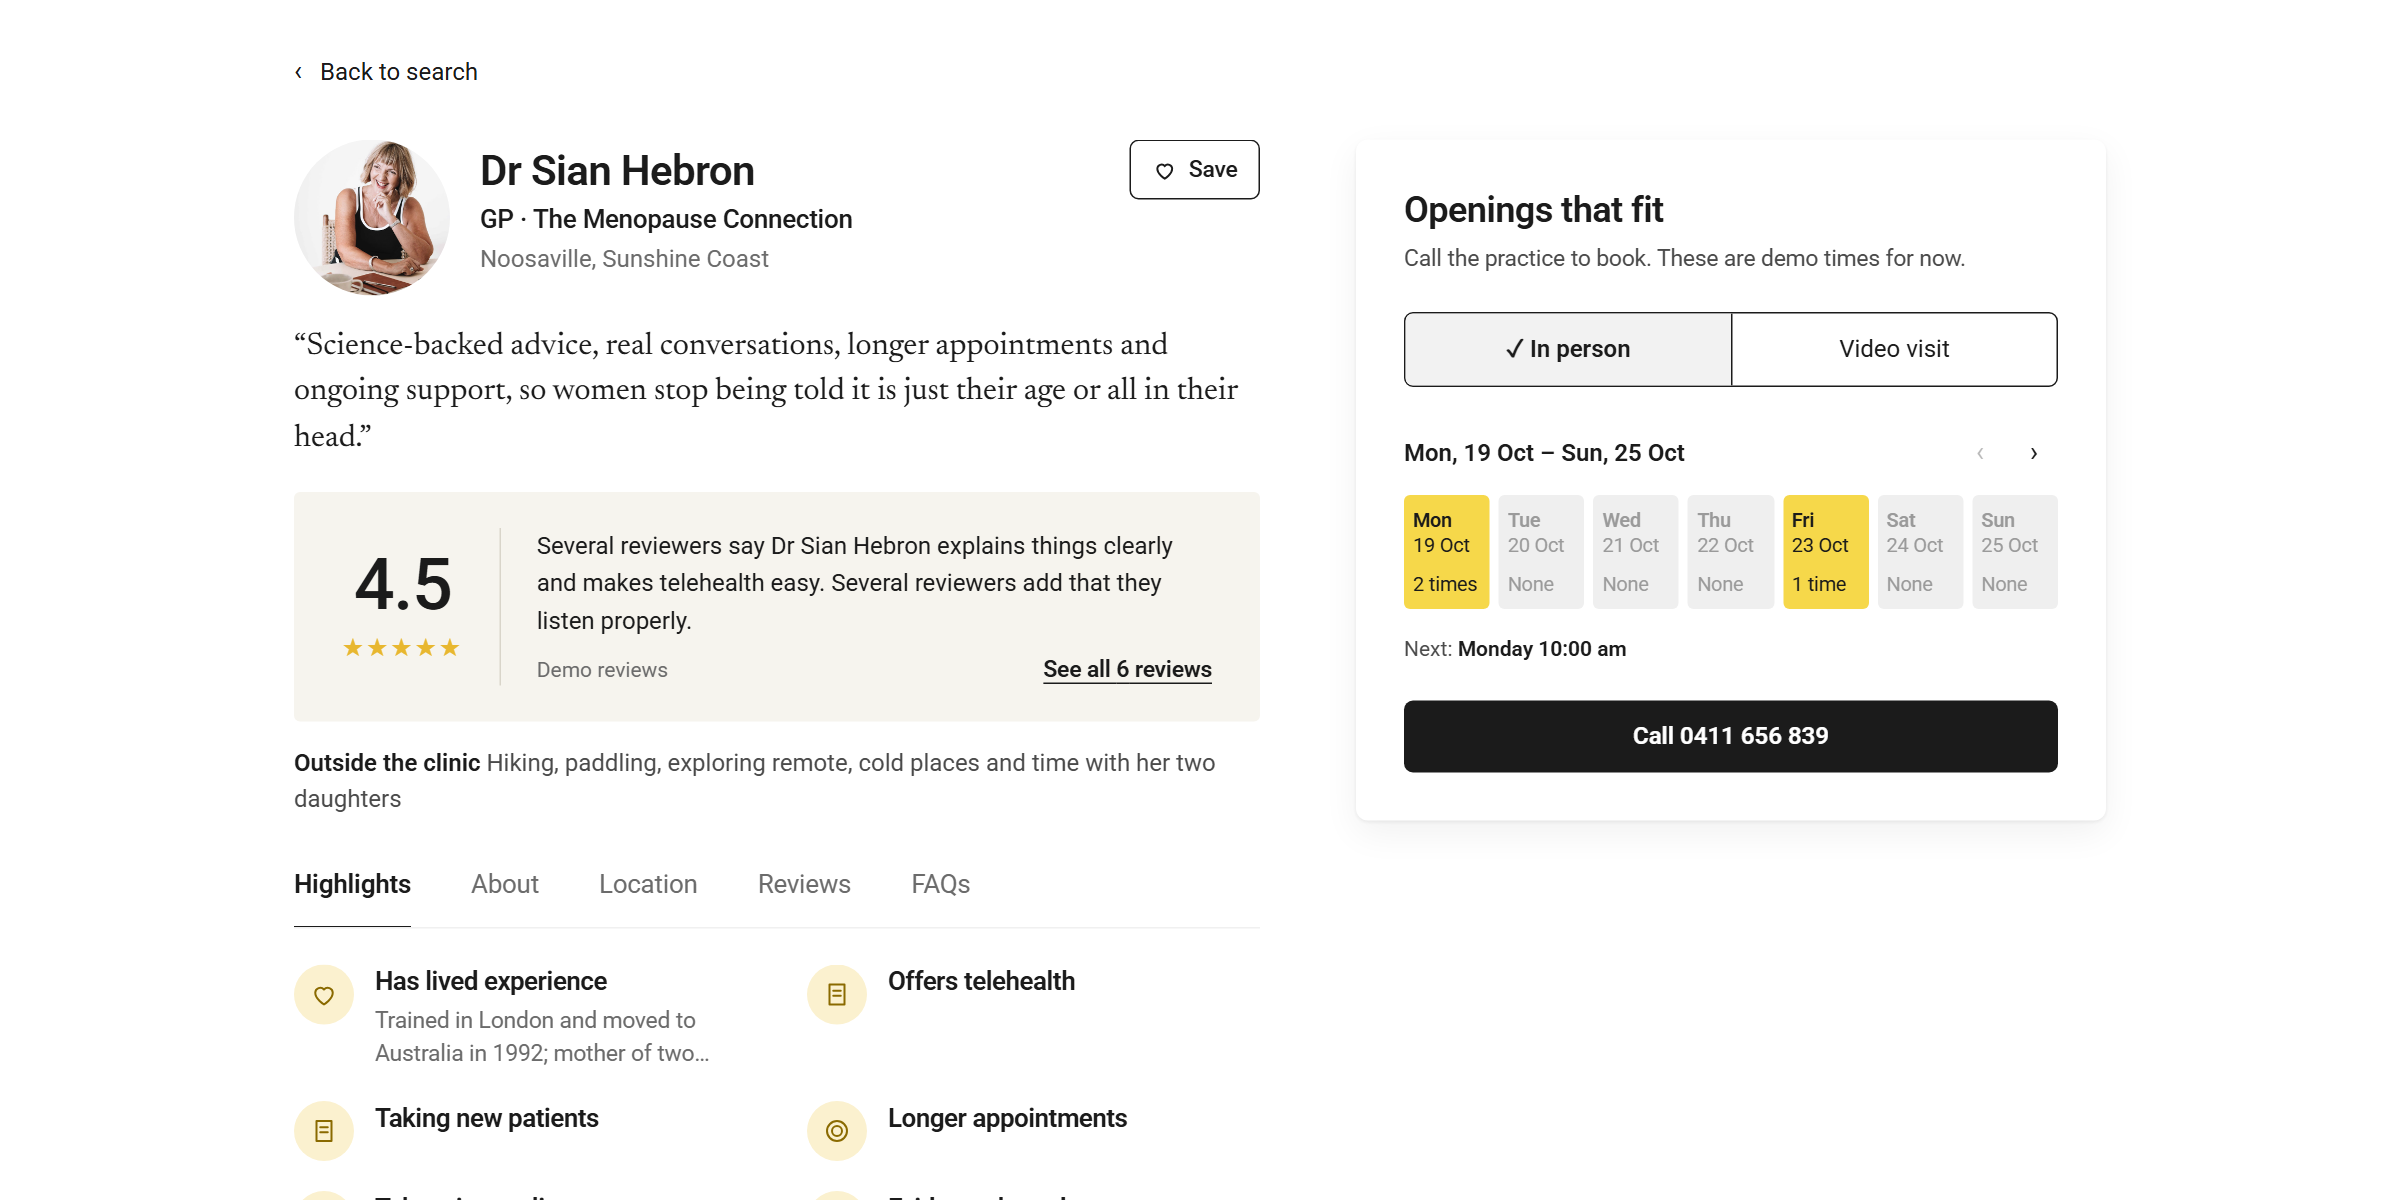
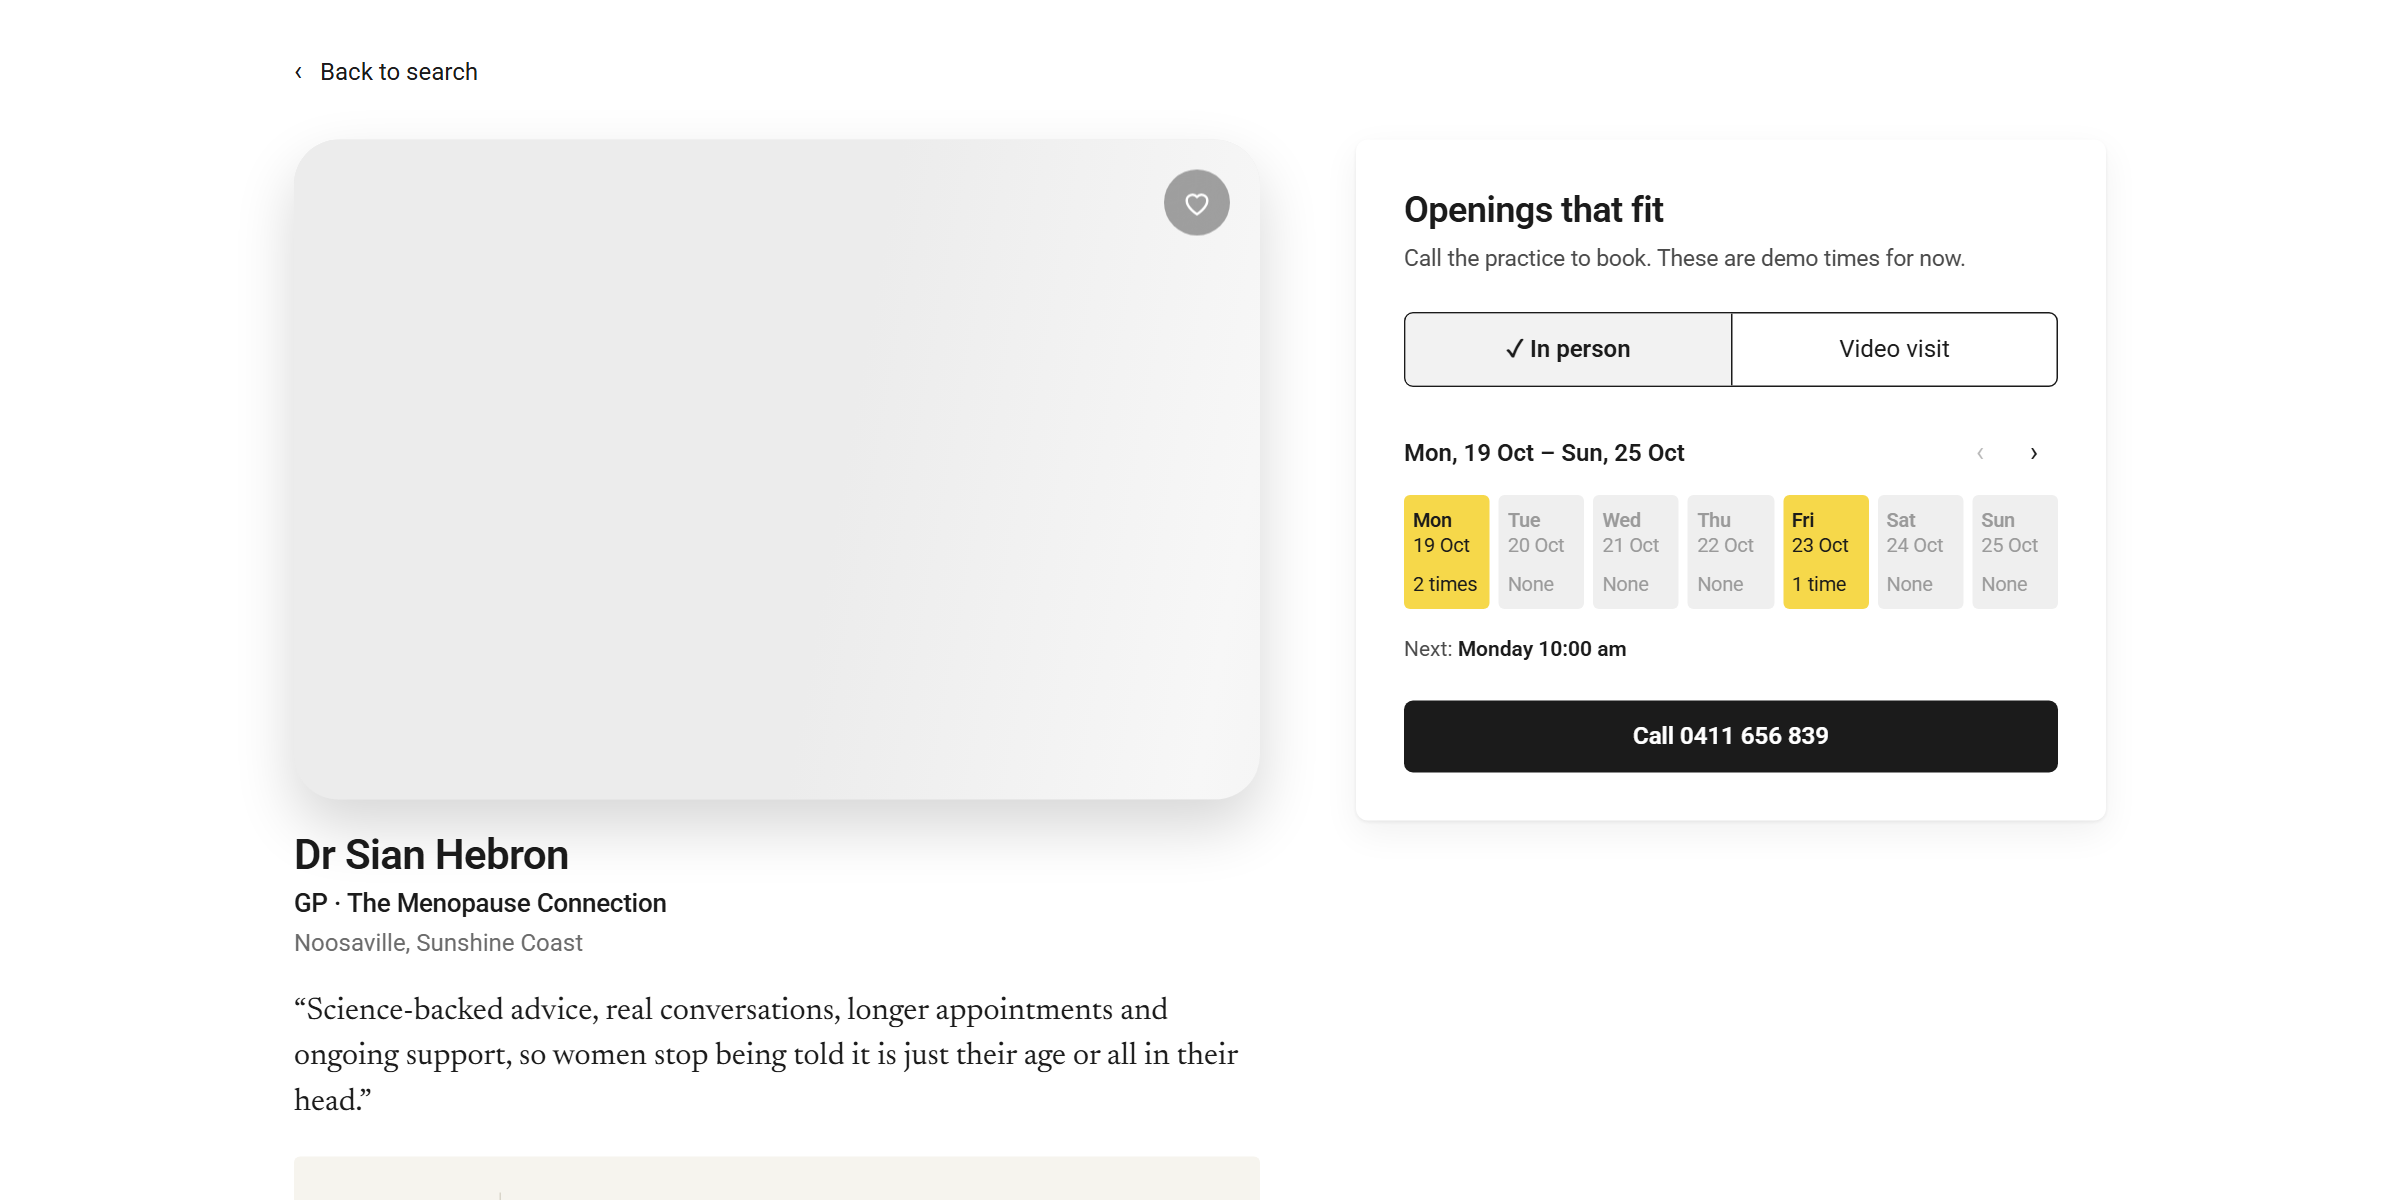
Big portraits back on matches, profiles and healthspan results (founder: big faces are more personable); Zocdoc name block, rating panel, tabs and openings card kept

diff --git a/src/ui/screens/patient-a/MatchPanel.tsx b/src/ui/screens/patient-a/MatchPanel.tsx
@@ -14,7 +14,7 @@ import { Facts, Research, Sources, Words } from "@/src/ui/screens/patient-b/Prof
 import { ContactCta } from "@/src/ui/screens/patient-b/ProfileClient";
 import { Reviews } from "@/src/ui/screens/patient-b/Reviews";
 import { conditionLabels, drShort, feeOf, listSentence, personalOf, placeOf, primaryRoom, specialtyTitle, wordsSource } from "@/src/ui/screens/patient-b/facts";
-import { fitSentence } from "./DoctorCard";
+import { fitSentence, Portrait } from "./DoctorCard";
 import { BookCard } from "./BookCard";
 import type { Highlight } from "@/src/data/search-types";
 
@@ -115,26 +115,15 @@ export function MatchPanel({ card, index, total, labels, saved, onSave, newPatie
       ) : null}
       <div className="lg:grid lg:grid-cols-[minmax(0,1fr)_500px] lg:items-start lg:gap-16">
       <div className="min-w-0">
-      <header className="flex items-start gap-5">
-        <Link href={doctorHref(d.id)} className="press shrink-0">
-          {d.photo ? (
-            // eslint-disable-next-line @next/next/no-img-element
-            <img src={d.photo.url} alt={drShort(d)} referrerPolicy="no-referrer" loading={index === 0 ? "eager" : "lazy"} className="size-[88px] rounded-full object-cover object-top lg:size-[104px]" />
-          ) : (
-            <span className="inline-flex size-[88px] items-center justify-center rounded-full bg-[#f5f8f6] font-display text-[30px] text-[#2f5d3a] lg:size-[104px]">{d.name.display.replace(/^Dr\.? /, "").split(" ").map((w) => w[0]).slice(0, 2).join("")}</span>
-          )}
+      <Link href={doctorHref(d.id)} className="press block">
+        <Portrait d={d} height={440} saved={saved} onSave={onSave} eager={index === 0} caption={false} />
+      </Link>
+      <header className="mt-5">
+        <Link href={doctorHref(d.id)} className="press-dim block">
+          <p role="heading" aria-level={2} className="text-[24px] font-semibold leading-[1.2] tracking-[-0.015em] text-ink lg:text-[28px]">{d.name.display}</p>
         </Link>
-        <div className="min-w-0 flex-1 pt-1">
-          <Link href={doctorHref(d.id)} className="press-dim block">
-            <p role="heading" aria-level={2} className="text-[22px] font-semibold leading-[1.2] tracking-[-0.015em] text-ink lg:text-[28px]">{d.name.display}</p>
-          </Link>
-          <p className="mt-1 text-[16px] font-medium leading-snug text-ink lg:text-[17px]">{line}</p>
-          <p className="mt-1 text-[15px] leading-snug text-[#6b6b6b] lg:text-[16px]">{[placeOf(d), km].filter(Boolean).join(" · ")}</p>
-        </div>
-        <button type="button" aria-pressed={saved} aria-label={saved ? "Remove from saved" : "Save"} onClick={onSave} className="press hidden h-10 shrink-0 items-center gap-2 rounded-[6px] border border-ink px-3.5 text-[15px] font-medium text-ink sm:inline-flex">
-          <svg width={17} height={17} viewBox="0 0 24 24" fill={saved ? "currentColor" : "none"} stroke="currentColor" strokeWidth={1.8} aria-hidden="true"><path d="M12 20s-7-4.3-7-9.4A4 4 0 0 1 12 8a4 4 0 0 1 7 2.6C19 15.7 12 20 12 20Z" /></svg>
-          {saved ? "Saved" : "Save"}
-        </button>
+        <p className="mt-1 text-[16px] font-medium leading-snug text-ink lg:text-[17px]">{line}</p>
+        <p className="mt-1 text-[15px] leading-snug text-[#6b6b6b] lg:text-[16px]">{[placeOf(d), km].filter(Boolean).join(" · ")}</p>
       </header>
       {ownLine ? <p className="mt-5 font-display text-[19px] leading-[1.45] text-ink lg:text-[21px]">“{ownLine.replace(/^[“"]|[”"]$/g, "")}”</p> : <p className="mt-5 text-[15px] leading-[1.5] text-[#6b6b6b]">{fitSentence(card, labels)}</p>}
       {reviews && reviews.count > 0 ? (

diff --git a/src/ui/screens/patient-b/HealthspanLanding.tsx b/src/ui/screens/patient-b/HealthspanLanding.tsx
@@ -10,6 +10,7 @@ import type { HealthspanMatch } from "@/src/data/healthspan-match";
 import { ArrowLeft, Check, Circle, Cta, Screen, Toggle } from "@/src/ui/kit";
 import { doctorHref } from "@/src/data/doctor-slug";
 import type { Offering } from "./Discover";
+import { Portrait } from "../patient-a/DoctorCard";
 import { drName, placeOf, specialtyTitle } from "./facts";
 
 const BEATS = [
@@ -113,16 +114,13 @@ export function HealthspanLanding({ offerings }: { offerings: Offering[] }) {
                 const outside = hobbiesOf(m);
                 return (
                   <article key={m.doctor.id} className="rise border-b border-divider pb-8 last:border-b-0" style={{ "--i": i } as React.CSSProperties}>
-                    <Link href={doctorHref(m.doctor.id)} className="press-dim flex items-start gap-4">
-                      {m.doctor.photo ? (
-                        // eslint-disable-next-line @next/next/no-img-element
-                        <img src={m.doctor.photo.url} alt={drName(m.doctor)} referrerPolicy="no-referrer" className="size-[72px] shrink-0 rounded-full bg-[#f5f8f6] object-cover object-top" />
-                      ) : <span className="inline-flex size-[72px] shrink-0 items-center justify-center rounded-full bg-[#f5f8f6] text-[22px] text-[#2f5d3a]">{drName(m.doctor).replace(/^Dr /, "").split(" ").map((w) => w[0]).slice(0, 2).join("")}</span>}
-                      <span className="min-w-0 pt-1">
-                        <span className="block text-[20px] font-semibold leading-tight tracking-[-0.01em] text-ink">{drName(m.doctor)}</span>
-                        <span className="mt-0.5 block text-[15px] font-medium text-ink">{specialtyTitle(m.doctor.specialty)}</span>
-                        <span className="block text-[15px] text-[#6b6b6b]">{placeOf(m.doctor)}</span>
-                      </span>
+                    <Link href={doctorHref(m.doctor.id)} className="press block">
+                      <Portrait d={m.doctor} height={i === 0 ? 400 : 320} caption={false} />
+                    </Link>
+                    <Link href={doctorHref(m.doctor.id)} className="press-dim mt-4 block">
+                      <span role="heading" aria-level={3} className="block text-[22px] font-semibold leading-tight tracking-[-0.01em] text-ink">{drName(m.doctor)}</span>
+                      <span className="mt-0.5 block text-[15px] font-medium text-ink">{specialtyTitle(m.doctor.specialty)}</span>
+                      <span className="block text-[15px] text-[#6b6b6b]">{placeOf(m.doctor)}</span>
                     </Link>
                     <p className="mt-4 font-display text-[19px] leading-[1.45] text-ink">“{m.evidence.replace(/^[“"]|[”"]$/g, "")}”</p>
                     {m.reasons.length ? (

diff --git a/src/ui/screens/patient-a/DoctorCard.tsx b/src/ui/screens/patient-a/DoctorCard.tsx
@@ -37,7 +37,7 @@ export function fitSentence(card: Card, labels: Record<string, string>): string 
 }
 
 /** The P05 photo block on its own, reused by Saved. */
-export function Portrait({ d, height = 405, saved, onSave, eager = false }: { d: DoctorRecord; height?: number; saved?: boolean; onSave?: () => void; eager?: boolean }) {
+export function Portrait({ d, height = 405, saved, onSave, eager = false, caption = true }: { d: DoctorRecord; height?: number; saved?: boolean; onSave?: () => void; eager?: boolean; caption?: boolean }) {
   const name = drName(d);
   const [bg, fg] = tintFor(name);
   const [loaded, setLoaded] = useState(false);
@@ -70,7 +70,7 @@ export function Portrait({ d, height = 405, saved, onSave, eager = false }: { d:
           <Heart key={saved ? "on" : "off"} size={22} fill={saved ? "currentColor" : "none"} className={saved ? "pop" : undefined} />
         </button>
       ) : null}
-      <div className="absolute bottom-5 left-5 flex h-[75px] max-w-[calc(100%-40px)] items-center rounded-[15px] bg-caption px-4 py-3 text-white shadow-[0_5px_4.5px_rgba(0,0,0,0.1)] backdrop-blur-[20px]">
+      {caption ? <div className="absolute bottom-5 left-5 flex h-[75px] max-w-[calc(100%-40px)] items-center rounded-[15px] bg-caption px-4 py-3 text-white shadow-[0_5px_4.5px_rgba(0,0,0,0.1)] backdrop-blur-[20px]">
         <span className="flex min-w-0 flex-col gap-2">
           <span className="truncate text-[16px] font-medium leading-normal">{name}{d.synthetic ? " (example)" : ""}</span>
           {suburb ? (
@@ -80,7 +80,7 @@ export function Portrait({ d, height = 405, saved, onSave, eager = false }: { d:
             </span>
           ) : null}
         </span>
-      </div>
+      </div> : null}
     </div>
   );
 }
